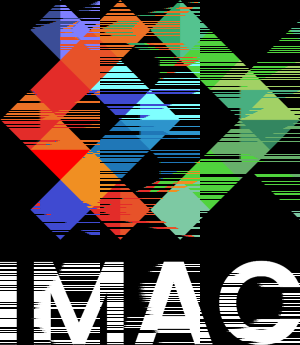
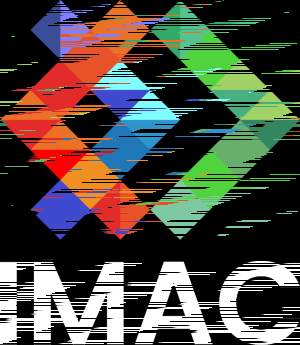
✨ Pixel sorting

diff --git a/src/main.cpp b/src/main.cpp
@@ -2,7 +2,7 @@
 
 void pixel_sorting(sil::Image& image)
 {
-    int const group_length = 100;
+    int const group_length = 101;
     for (int i = 0; i < image.pixels().size() / group_length; ++i)
     {
         float const random = static_cast<float>(rand()) / static_cast<float>(RAND_MAX);
